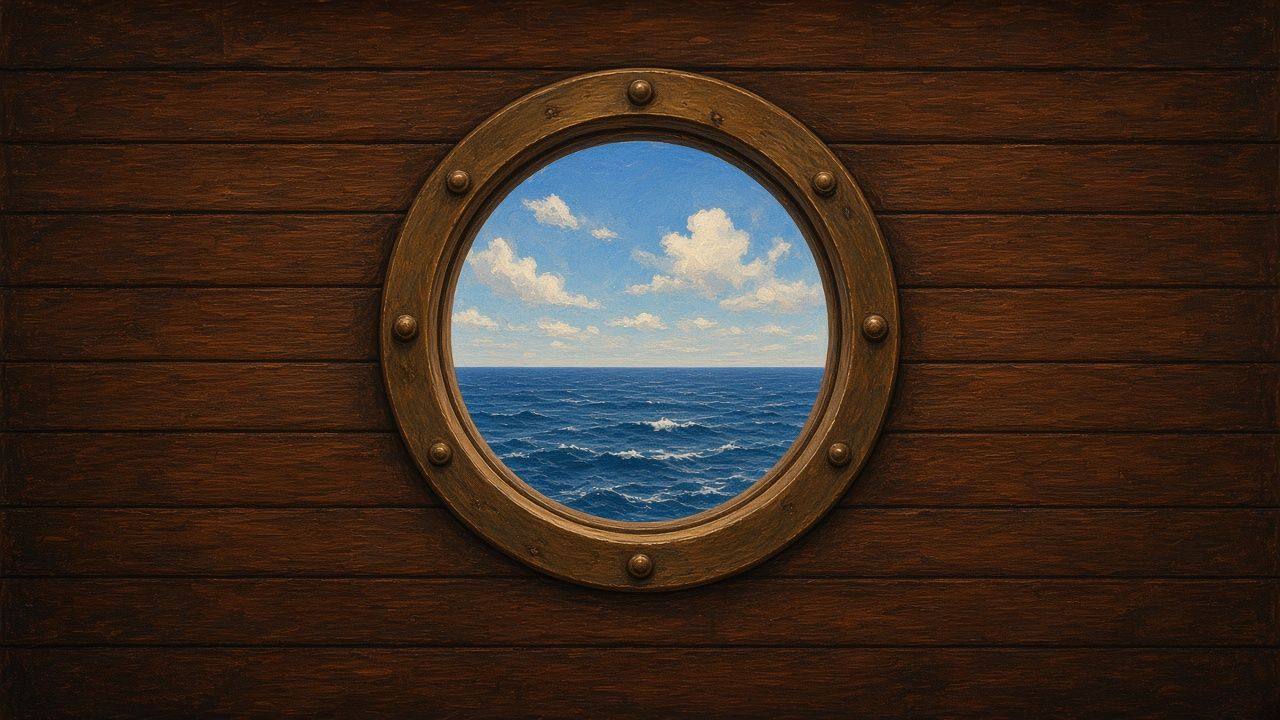
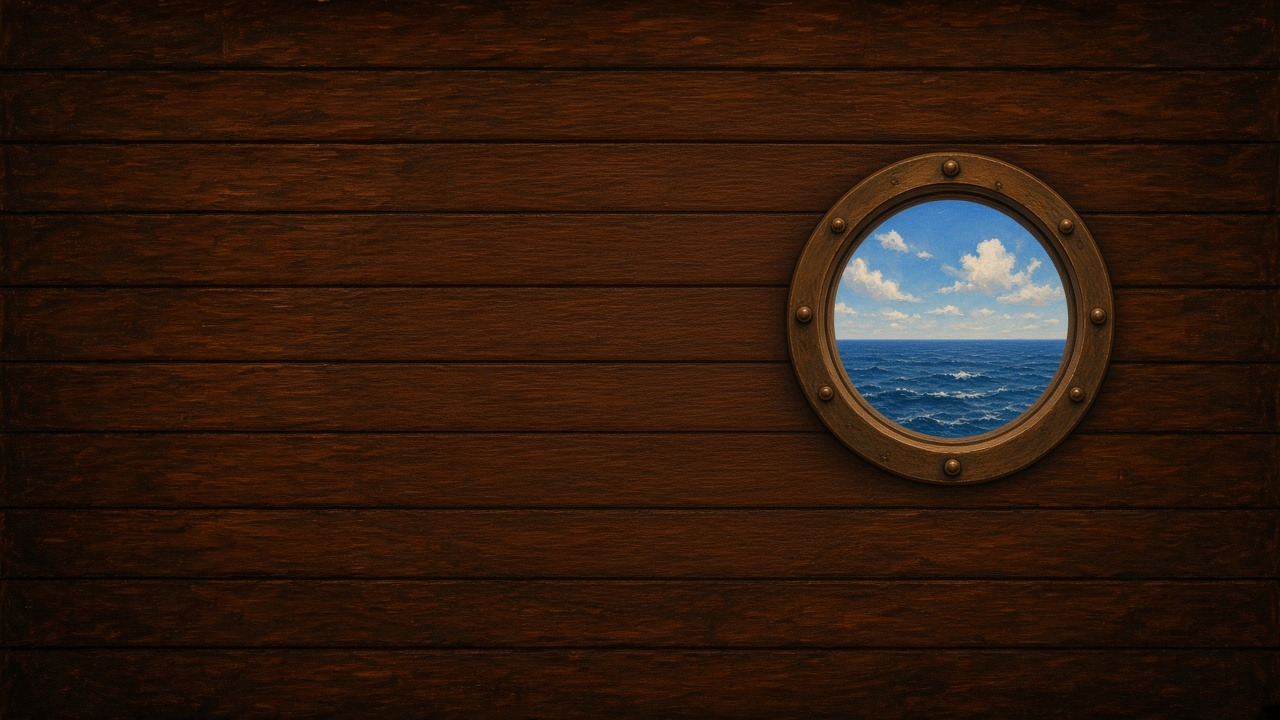
Shrink port porthole and shift it right (#31)
* Shrink port porthole and shift it right

Make the empty port-wall porthole about half size and place it
on the right so the left stays open for future props.

* Cache-bust updated port wall image

---------

diff --git a/pirates-cabin.js b/pirates-cabin.js
@@ -11,7 +11,7 @@
       note: "Stern wall · approved · sunrise in the windows",
     },
     port: {
-      src: "images/cabin-port-wall.jpg?v=1",
+      src: "images/cabin-port-wall.jpg?v=2",
       alt: "Empty port wall with a daytime ocean porthole",
       note: "Port wall · empty for now · daytime ocean in the porthole",
     },

diff --git a/pirates-cabin.html b/pirates-cabin.html
@@ -28,7 +28,7 @@
       <div class="cabin-wall-view">
         <img
           id="cabin-wall-image"
-          src="images/cabin-port-wall.jpg?v=1"
+          src="images/cabin-port-wall.jpg?v=2"
           alt="Empty port wall with a daytime ocean porthole"
           draggable="false"
         />
